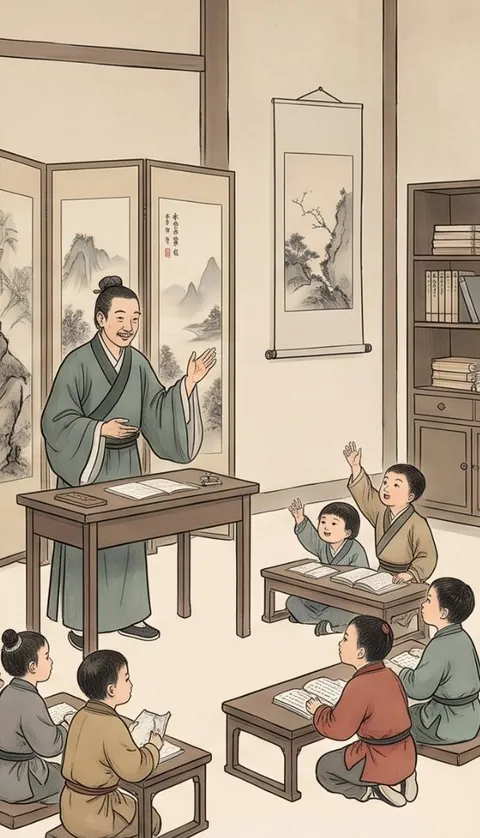
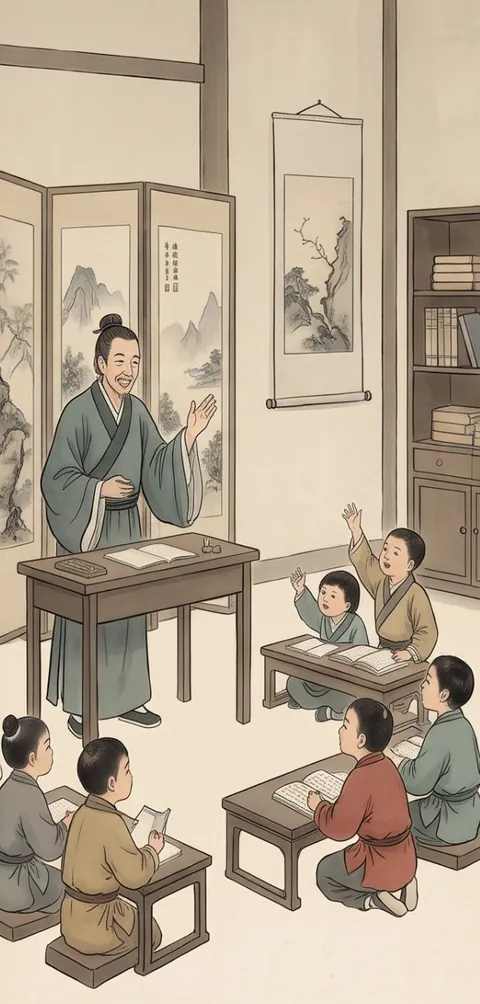
科目卡封面：換成擁有者修改過的四張插畫（解剖那張的對聯改為「精研岐術濟蒼生／博學醫經明至理」），網址版本 v=2
Claude-Session: https://claude.ai/code/session_01E9esQDxkHX8gvnSHxKrN6Z

diff --git a/js/core.js b/js/core.js
@@ -374,15 +374,15 @@ function subjChipsHtml(sems, curId, count, attr) {
 // 科目卡封面底圖：原創水墨山水（遠山、霧、朱紅日、枝椏、飛鳥），依科目左右翻轉、換日的位置，只當淡淡的底
 // 科目卡封面插畫（擁有者 2026-10-31 提供的私塾聽講插畫，裁成直式 WebP）；依科目代碼對應，沒有的科目用下方水墨山水 COVER_ART
 const COVER_IMG = {
-  'tcm-basic-theory': '/css/img/covers/tcm-basic-theory.webp?v=1',
-  'histology-embryology': '/css/img/covers/histology-embryology.webp?v=1',
-  'medical-biology': '/css/img/covers/medical-biology.webp?v=1',
-  'anatomy': '/css/img/covers/anatomy.webp?v=1'
+  'tcm-basic-theory': '/css/img/covers/tcm-basic-theory.webp?v=2',
+  'histology-embryology': '/css/img/covers/histology-embryology.webp?v=2',
+  'medical-biology': '/css/img/covers/medical-biology.webp?v=2',
+  'anatomy': '/css/img/covers/anatomy.webp?v=2'
 };
 // 其他科目：8 張插畫輪換（擁有者 2026-10-31 再提供 4 張 extra-5～8）
 const COVER_POOL = [
   '/css/img/covers/extra-5.webp?v=1', '/css/img/covers/extra-6.webp?v=1', '/css/img/covers/extra-7.webp?v=1', '/css/img/covers/extra-8.webp?v=1',
-  '/css/img/covers/tcm-basic-theory.webp?v=1', '/css/img/covers/histology-embryology.webp?v=1', '/css/img/covers/medical-biology.webp?v=1', '/css/img/covers/anatomy.webp?v=1'
+  '/css/img/covers/tcm-basic-theory.webp?v=2', '/css/img/covers/histology-embryology.webp?v=2', '/css/img/covers/medical-biology.webp?v=2', '/css/img/covers/anatomy.webp?v=2'
 ];
 // 沒有指定插畫的科目，依科目編號排隊輪流取：第 1～4 個先用新的 4 張，之後才和既有 4 張重複
 const coverImgOf = c => {
